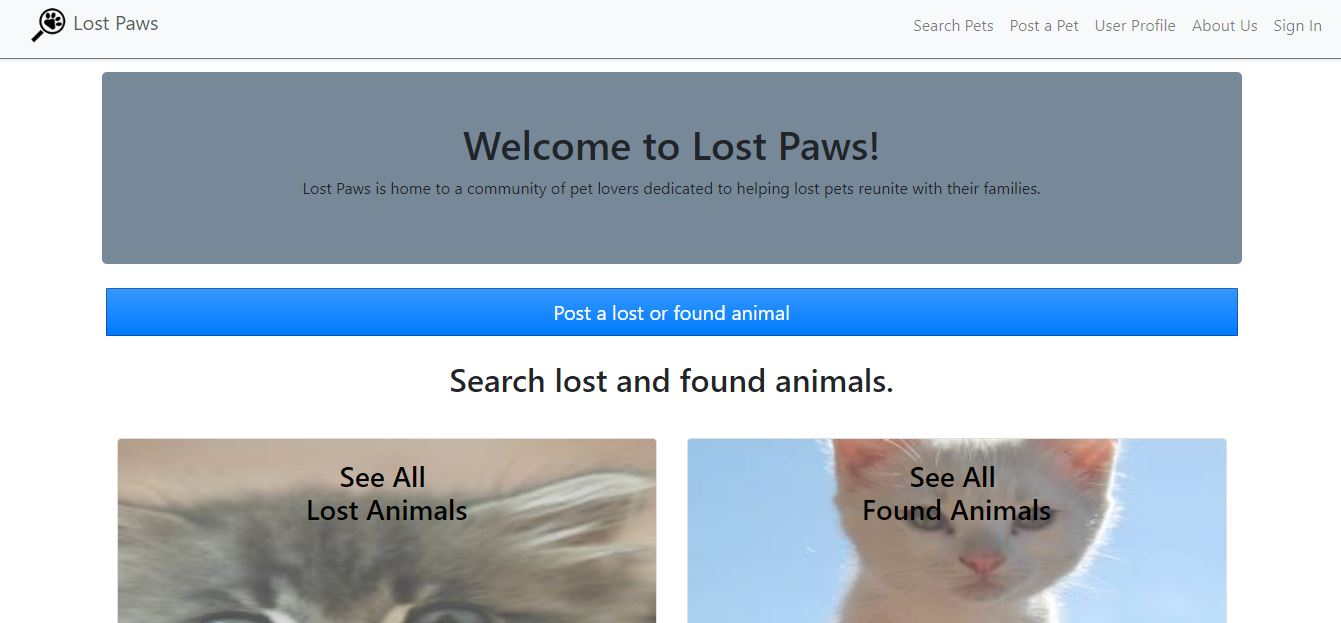
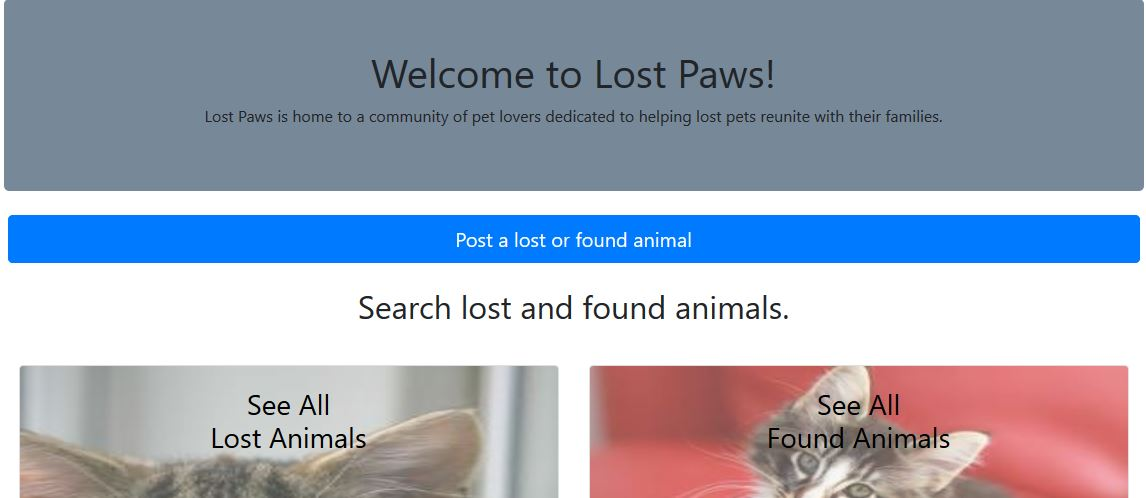
added new pictures and sizing to carousel for better scaling on mobile devices

diff --git a/public_html/styles.css b/public_html/styles.css
@@ -126,3 +126,6 @@ footer {
 	max-height: 250px;
 }
 
+.portfolio {
+	max-width: 60em;
+}

diff --git a/public_html/index.php b/public_html/index.php
@@ -112,7 +112,7 @@
 				</div>
 				<div class="carousel-item">
 					<a href="https://bootcamp-coders.cnm.edu/~amoreno28/bootstrap-challenge/bootstrap.html" target="_blank">
-					<img class="d-block w-100" src="bootstrap-challenge.JPG" alt="Third slide">
+					<img class="d-block w-100" src="dog.jpg" alt="Third slide">
 					<div class="carousel-caption d-none d-md-block">
 						<h3>Bootstrap Challenge</h3>
 					</div>
